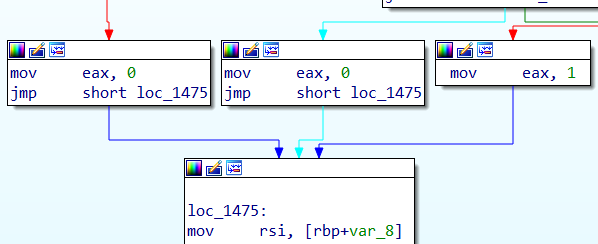
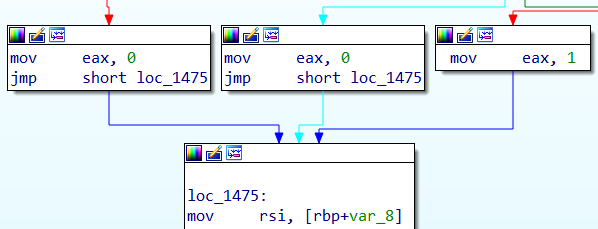
keygenme Writeup - picoCTF

diff --git a/Reverse-Engineering/keygenme - picoCTF/keygenme Writeup.md b/Reverse-Engineering/keygenme - picoCTF/keygenme Writeup.md
@@ -41,7 +41,7 @@ In order for the program to accept the input as valid (i.e., print "That key is 
 
 ## Step 4 – Reverse Engineering the Validation Logic
 
-![Validate key return paths](screenshots/05-validate-key-return-paths.png)
+<br>![Validate key return paths](screenshots/05-validate-key-return-paths.png)
 
 The function has multiple return paths, but only one leads to a successful validation (return value `1`).
 
